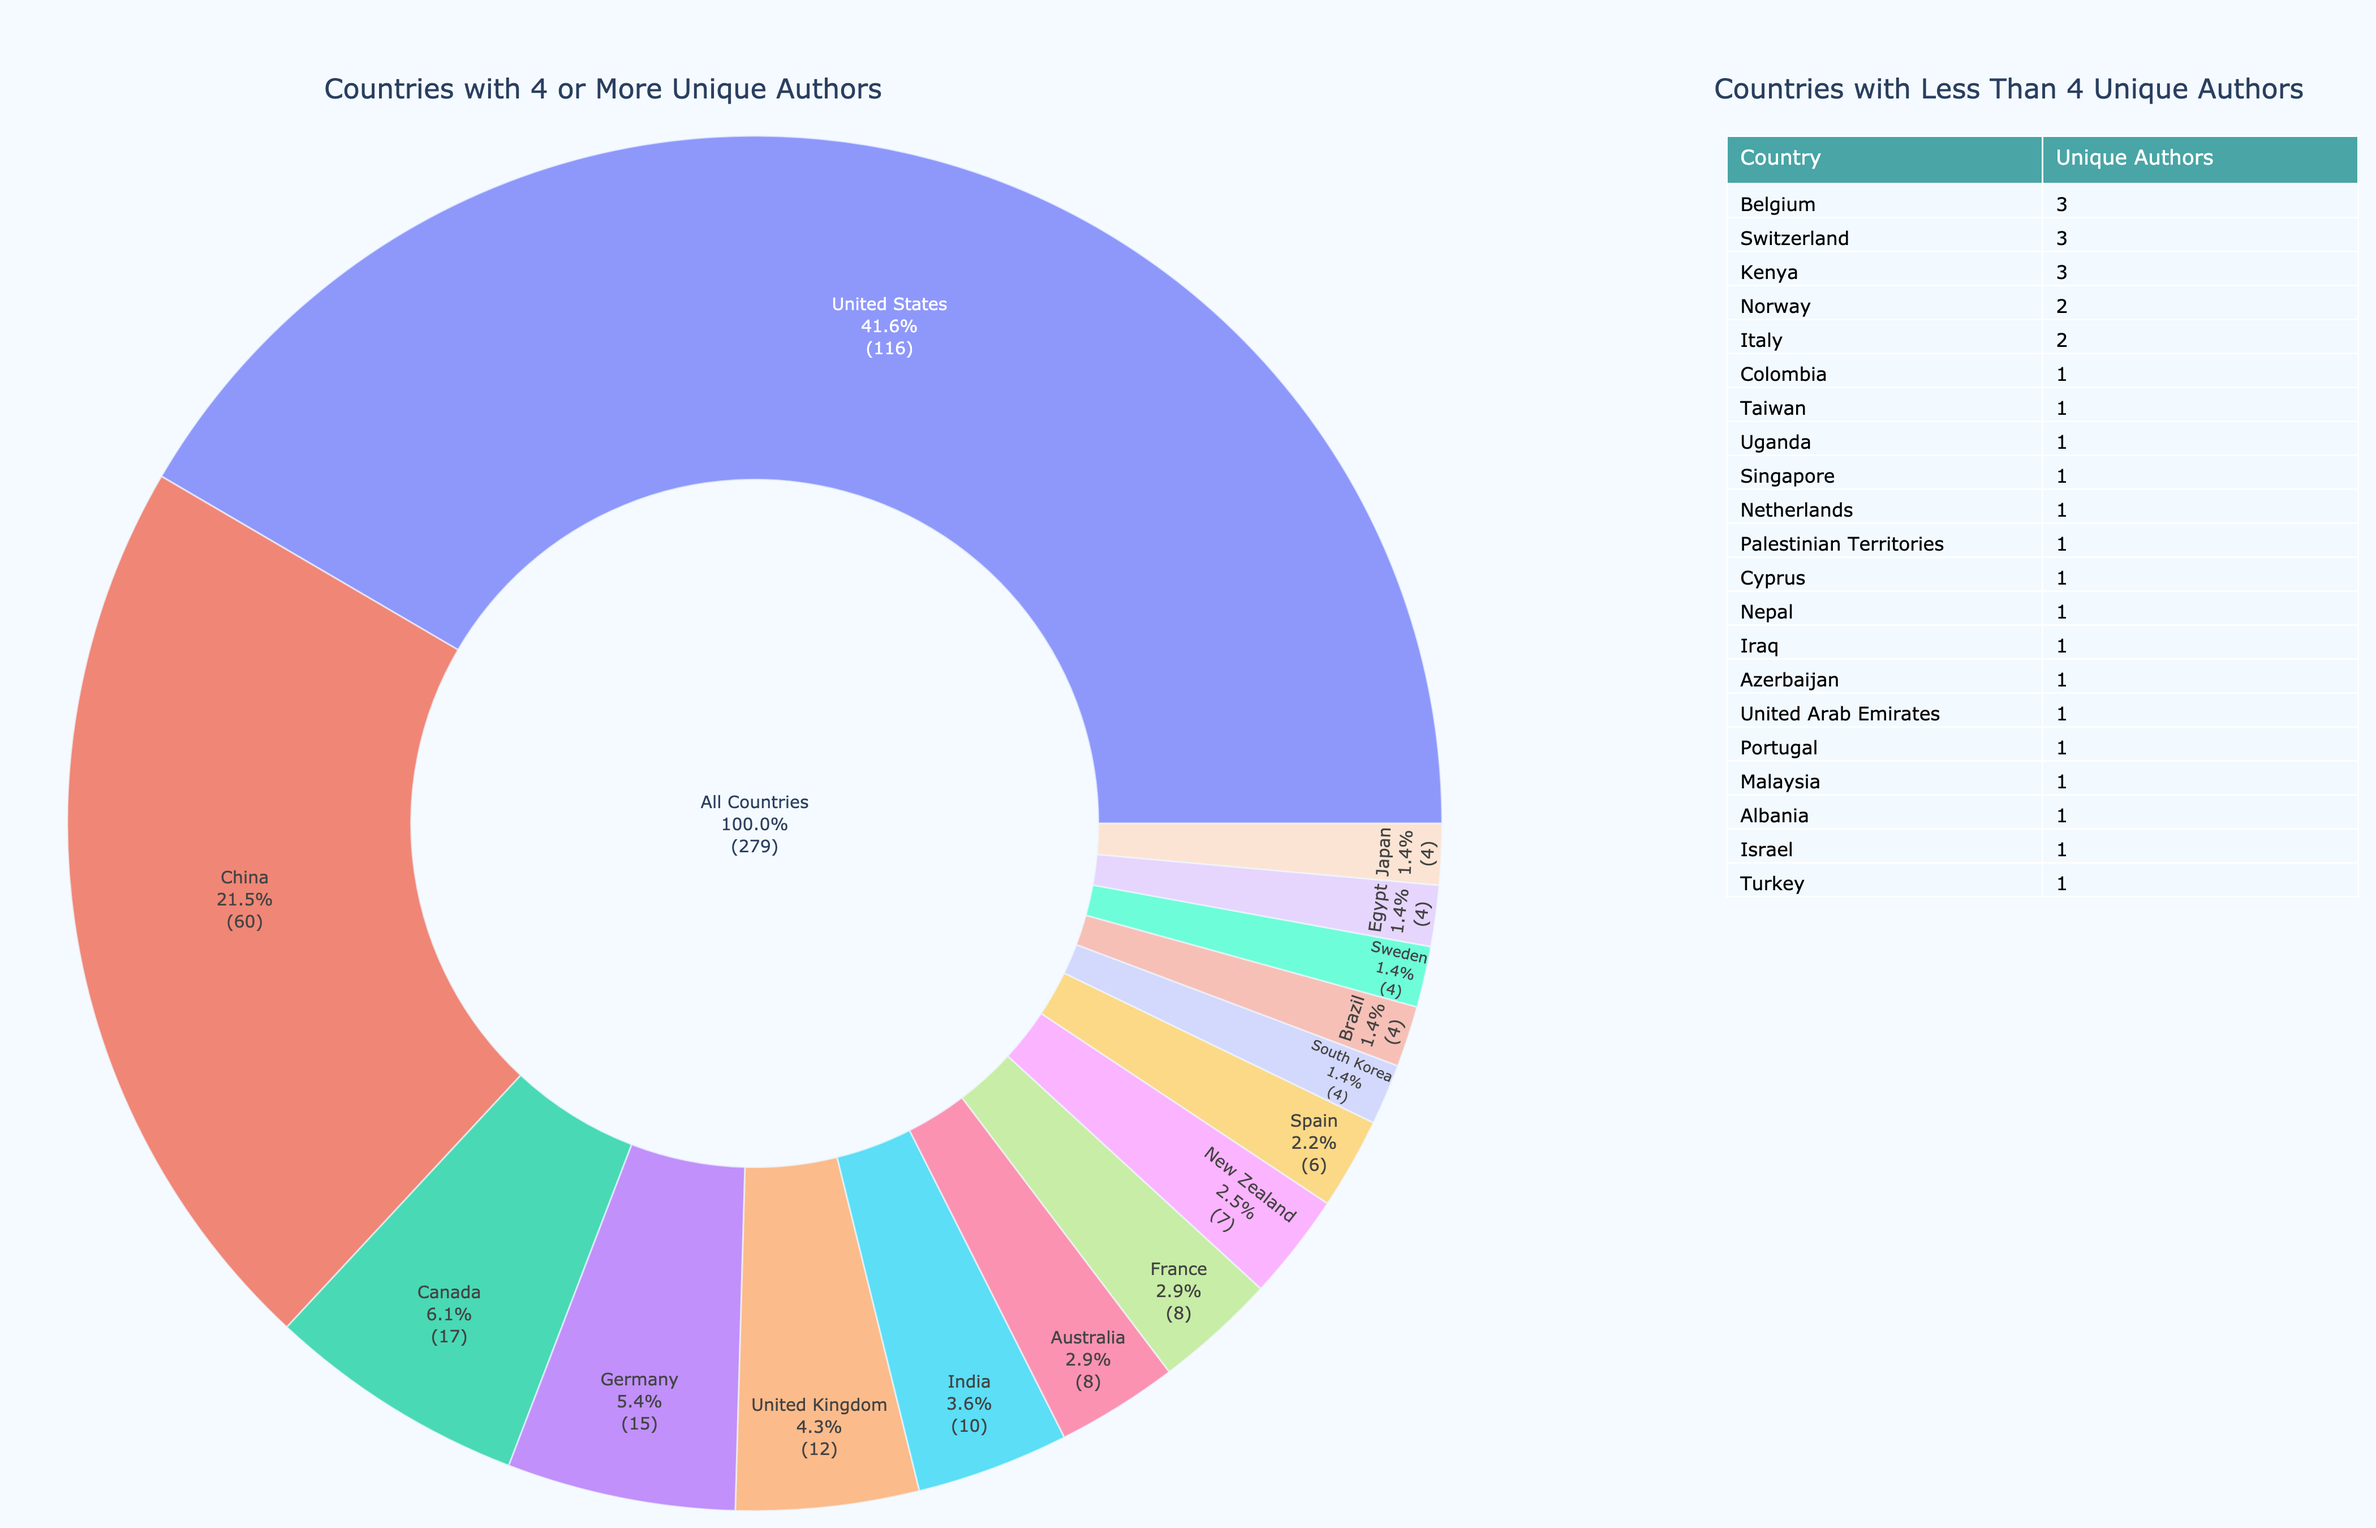
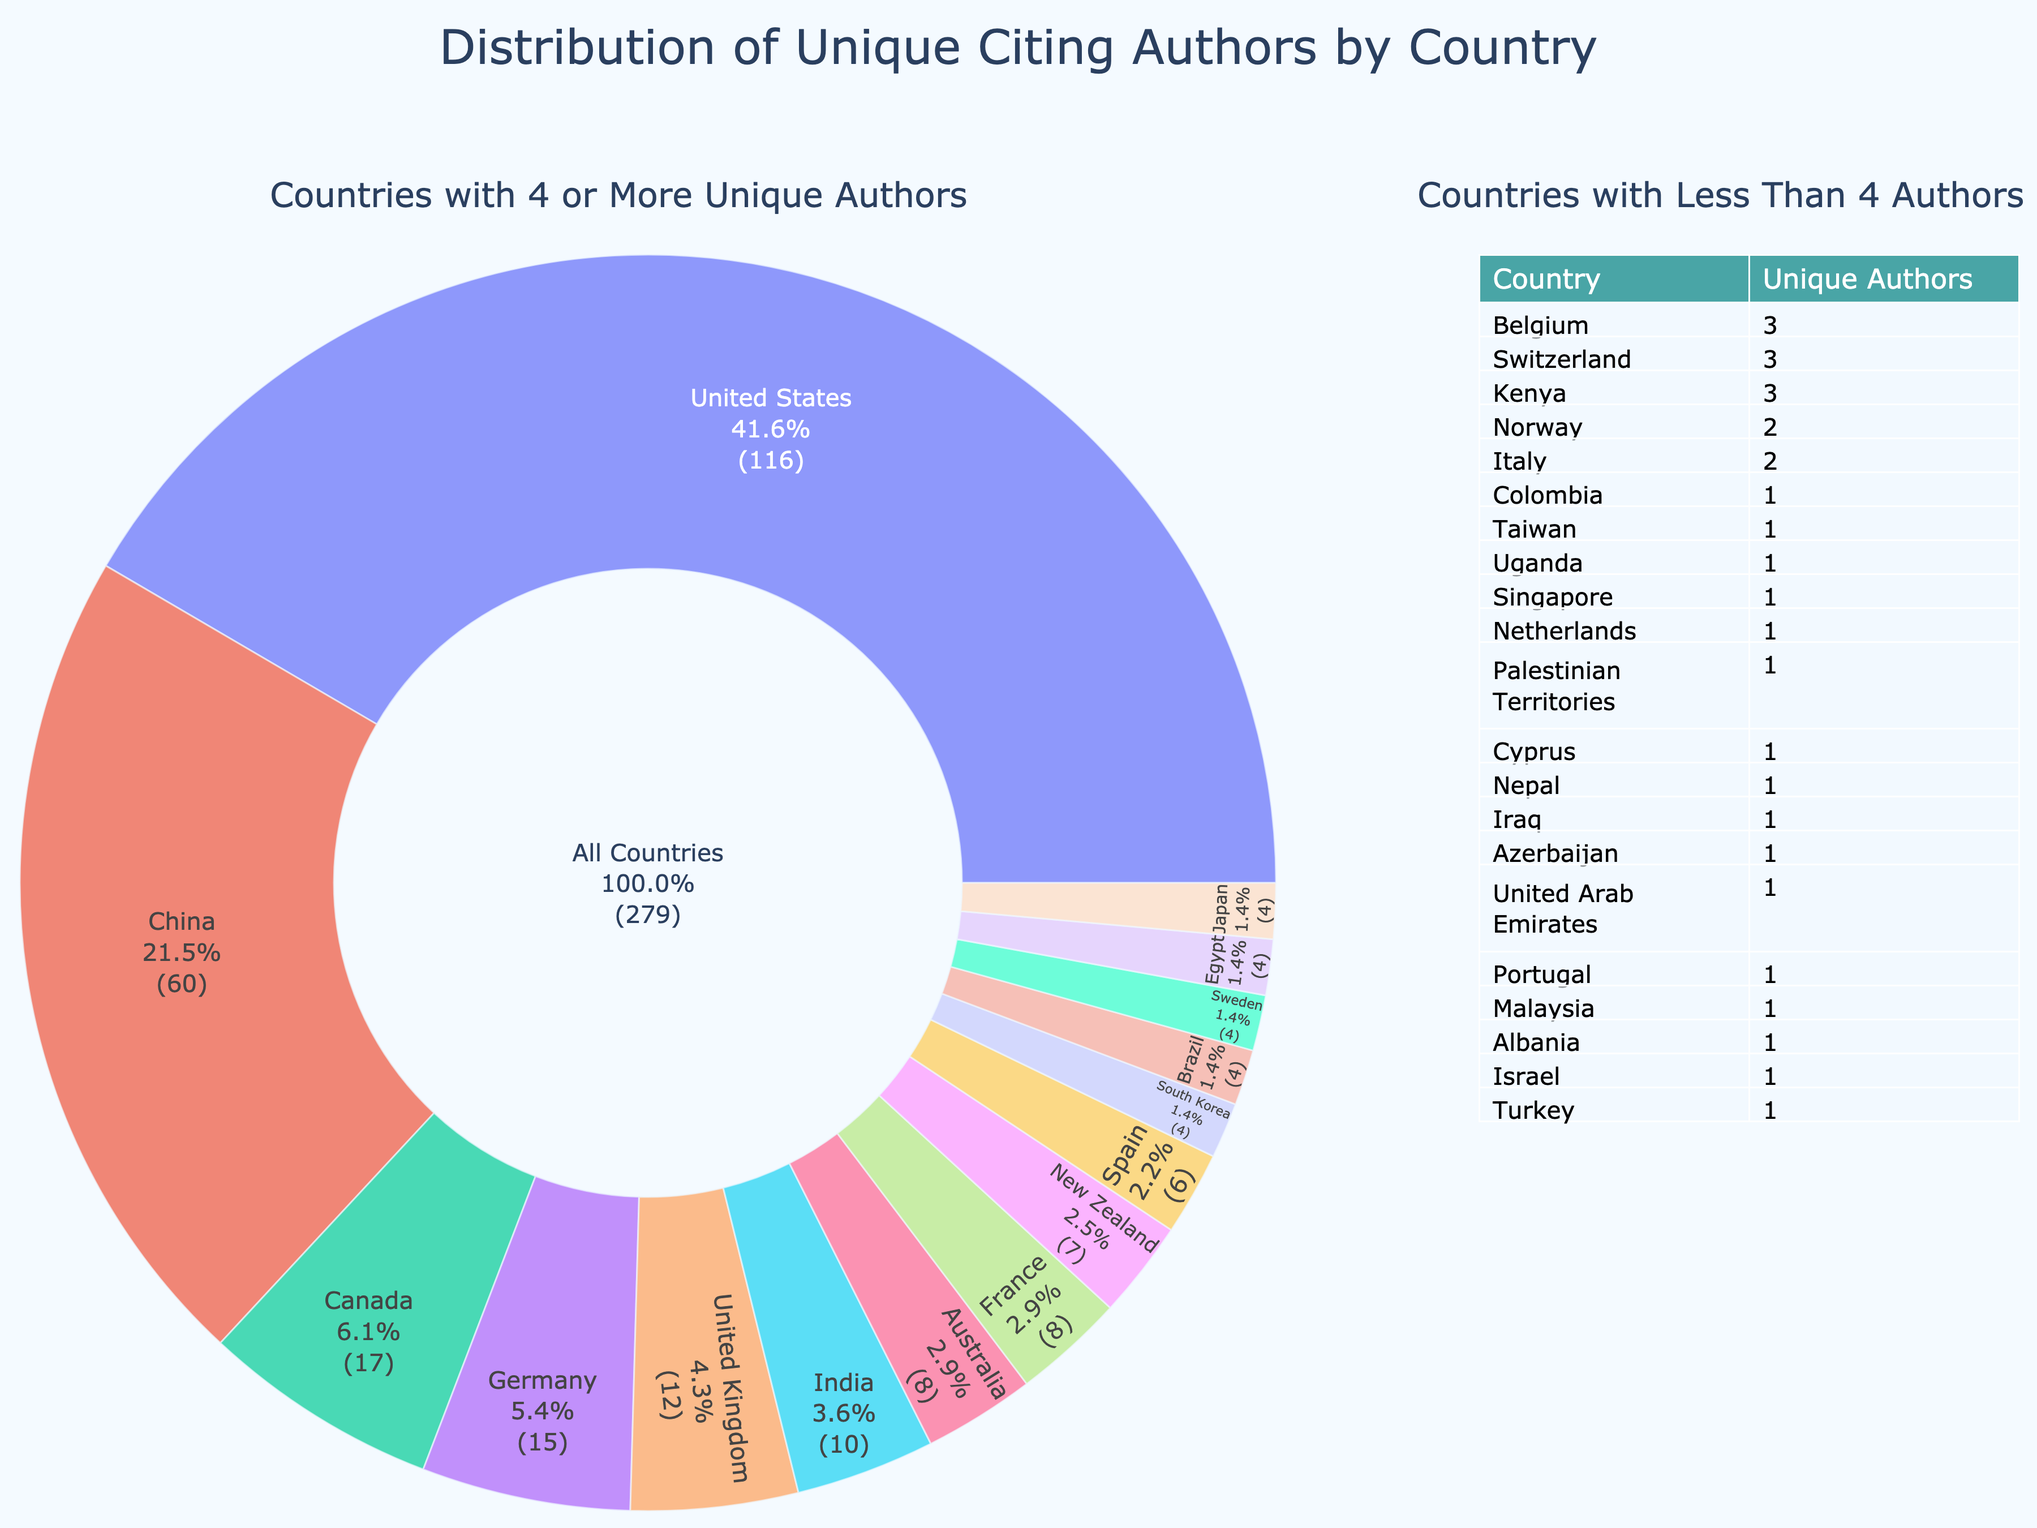
fix position

diff --git a/analyze_citations_by_country.py b/analyze_citations_by_country.py
@@ -46,7 +46,7 @@ def analyze_citations_by_country(file_path):
         branchvalues="total",
         hovertemplate='<b>%{label}</b><br>Unique Authors: %{value}<br>Percentage: %{percentRoot:.1%}<extra></extra>',
         texttemplate='%{label}<br>%{percentRoot:.1%}<br>(%{value})',
-        textfont=dict(size=10),
+        textfont=dict(size=14),  # Increased font size
         name=""
     ), 1, 1)
 
@@ -55,29 +55,30 @@ def analyze_citations_by_country(file_path):
         header=dict(values=['Country', 'Unique Authors'],
                     fill_color='rgba(0, 128, 128, 0.7)',
                     align='left',
-                    font=dict(color='white', size=12)),
+                    font=dict(color='white', size=16)),  # Increased font size
         cells=dict(values=[[country for country, _ in sorted_small_countries],
                            [count for _, count in sorted_small_countries]],
                    fill_color='rgba(240, 248, 255, 0.6)',
                    align='left',
-                   font=dict(color='black', size=11))
+                   font=dict(color='black', size=14))  # Increased font size
     ), 1, 2)
 
     # Update layout
     fig.update_layout(
-        title_font_size=24,
+        title_text="Distribution of Unique Citing Authors by Country",
+        title_font_size=28,  # Increased title font size
         title_x=0.5,
-        title_y=0.95,
+        title_y=0.98,  # Moved title higher
         showlegend=False,
-        height=900,
-        width=1400,
+        height=900,  # Increased height
+        width=1200,
         annotations=[
-            dict(text='Countries with 4 or More Unique Authors', x=0.25, y=1.02, font_size=16, showarrow=False),
-            dict(text='Countries with Less Than 4 Unique Authors', x=0.85, y=1.02, font_size=16, showarrow=False)
+            dict(text='Countries with 4 or More Unique Authors', x=0.3, y=1.03, font_size=20, showarrow=False),
+            dict(text='Countries with Less Than 4 Authors', x=0.85, y=1.03, font_size=20, showarrow=False)
         ],
         paper_bgcolor='rgba(240,248,255,0.7)',
         plot_bgcolor='rgba(240,248,255,0.7)',
-        margin=dict(t=80, l=10, r=10, b=10)
+        margin=dict(t=150, l=10, r=10, b=10)  # Increased top margin
     )
 
     # Update sunburst specific layout
@@ -87,7 +88,7 @@ def analyze_citations_by_country(file_path):
 
     # Save as static image
     output_path = os.path.join(os.path.dirname(file_path), "unique_authors_distribution.png")
-    fig.write_image(output_path, scale=3, width=1400, height=900)
+    fig.write_image(output_path, scale=3, width=1200, height=900)
     print(f"Plot saved as: {output_path}")
 
     # Results
